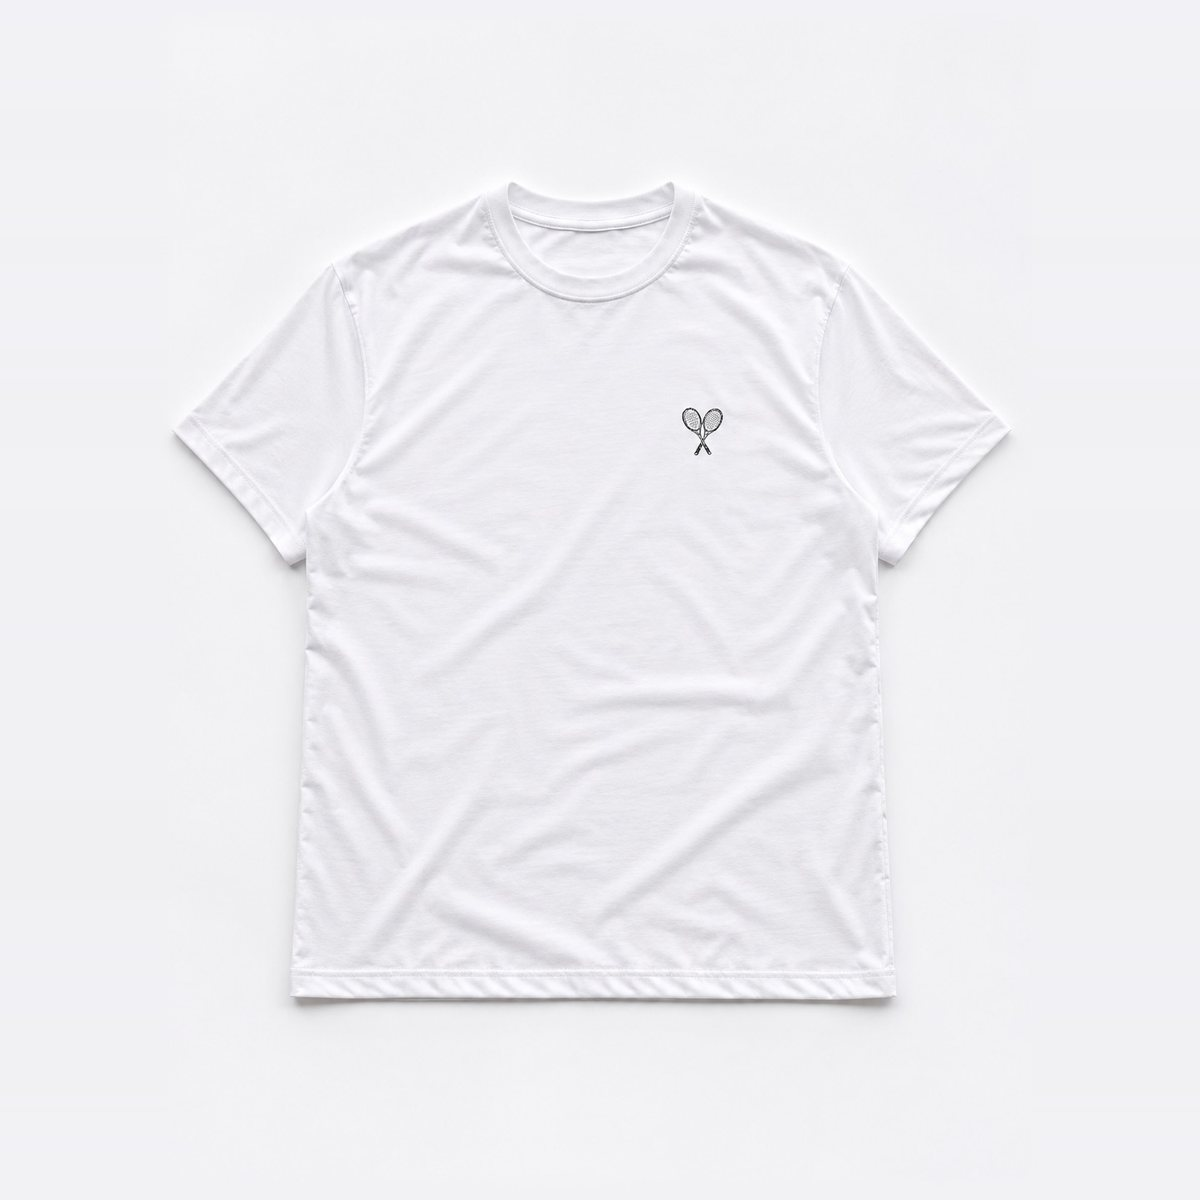
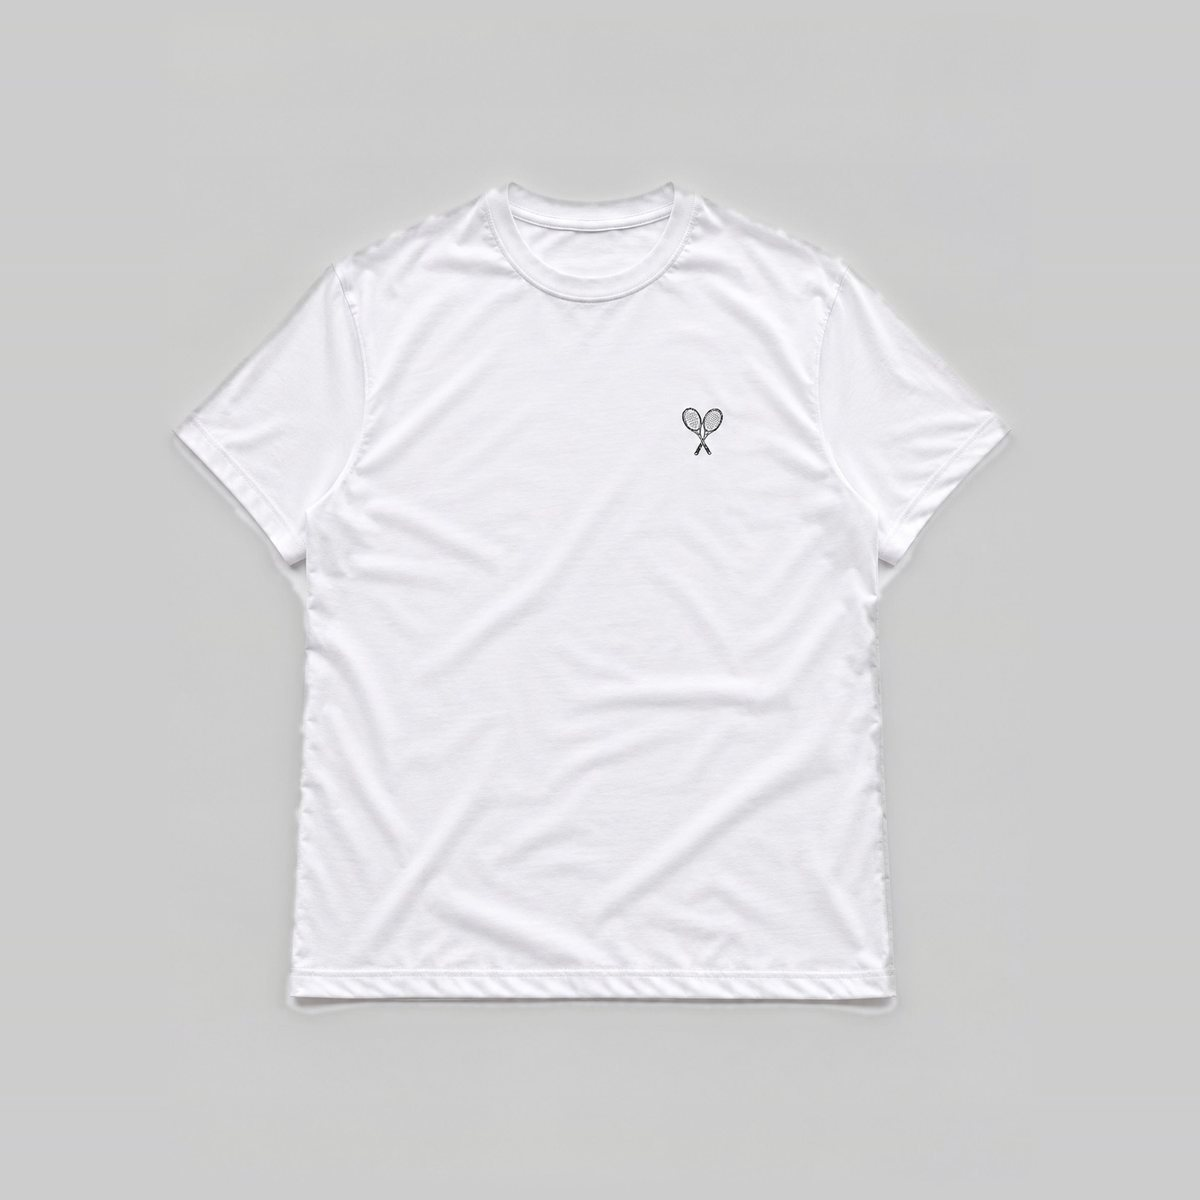
Fundo das fotos novas no mesmo cinza das antigas
Escurece só o fundo (cinza neutro 205, igual ao das Society), sem mexer
nas camisas, para dar mais destaque às peças. Inclui os scripts usados
para preparar as fotos em ferramentas/.

Claude-Session: https://claude.ai/code/session_012ifzB4S7onY6k9W8sMfLZo

diff --git a/ferramentas/fotos_quadradas.py b/ferramentas/fotos_quadradas.py
@@ -1,0 +1,69 @@
+import sys, os
+from PIL import Image, ImageFilter, ImageDraw
+D, OUT = sys.argv[1], sys.argv[2]
+fs = sorted(os.listdir(D))
+# código → (nº da peça nos arquivos, foto das costas, foto da frente)
+MAP = {"AL-001": (2, 1, 3), "AL-002": (3, 2, 4), "AL-003": (4, 6, 5), "AL-004": (5, 8, 7),
+       "AL-005": (6, 9, 10), "AL-006": (7, 12, 11), "AL-007": (8, 13, 15), "AL-008": (9, 14, 16)}
+SIZE = 1200
+
+def background(im, size):
+    """Fundo do tamanho pedido, repetindo o degradê vertical das bordas da foto."""
+    w, h = im.size
+    edge = Image.new('RGB', (2, h))
+    edge.paste(im.crop((0, 0, 10, h)).resize((1, h), Image.BOX), (0, 0))
+    edge.paste(im.crop((w - 10, 0, w, h)).resize((1, h), Image.BOX), (1, 0))
+    col = edge.resize((1, h), Image.BOX).filter(ImageFilter.GaussianBlur(8))
+    return col.resize(size, Image.BICUBIC)
+
+def feather(size, fade):
+    m = Image.new('L', size, 0)
+    ImageDraw.Draw(m).rectangle((fade, fade, size[0] - fade, size[1] - fade), fill=255)
+    return m.filter(ImageFilter.GaussianBlur(fade / 2))
+
+def to_square(im):
+    im = im.convert('RGB'); w, h = im.size
+    canvas = background(im, (h, h))
+    canvas.paste(im, ((h - w) // 2, 0), feather((w, h), 24))
+    return canvas.resize((SIZE, SIZE), Image.LANCZOS)
+
+def border_color(im):
+    w, h = im.size
+    parts = [im.crop((0, 0, 10, h)), im.crop((w - 10, 0, w, h)), im.crop((0, 0, w, 10)), im.crop((0, h - 10, w, h))]
+    tot = [0, 0, 0]; n = 0
+    for pt in parts:
+        c = pt.resize((1, 1), Image.BOX).getpixel((0, 0)); a = pt.size[0] * pt.size[1]
+        tot = [t + v * a for t, v in zip(tot, c)]; n += a
+    return [t / n for t in tot]
+
+def match_bg(im, target):
+    """Ajusta o brilho para o fundo da foto ficar igual ao da outra."""
+    src = border_color(im)
+    lut = []
+    for ch in range(3):
+        g = target[ch] / max(1, src[ch])
+        lut += [min(255, int(v * g + .5)) for v in range(256)]
+    return im.point(lut)
+
+def conjunto(front, back):
+    f, b = front.convert('RGB'), back.convert('RGB')
+    b = match_bg(b, border_color(f))
+    w, h = f.size
+    sq = background(f, (SIZE, SIZE))
+    half = SIZE // 2
+    scale = min(half * 1.0 / w, SIZE * 0.92 / h)
+    fw, fh = int(w * scale), int(h * scale)
+    for k, im in enumerate((f, b)):
+        r = im.resize((fw, fh), Image.LANCZOS)
+        sq.paste(r, (k * half + (half - fw) // 2, (SIZE - fh) // 2), feather((fw, fh), 16))
+    return sq
+
+only = sys.argv[3:] or list(MAP)
+for code in only:
+    n, ib, i_f = MAP[code]
+    back = Image.open(os.path.join(D, fs[ib])); front = Image.open(os.path.join(D, fs[i_f]))
+    opts = dict(quality=84, optimize=True, progressive=True)
+    to_square(back).save(os.path.join(OUT, f'peca_{n}_costas_cinza.jpg'), **opts)
+    to_square(front).save(os.path.join(OUT, f'peca_{n}_frente_cinza.jpg'), **opts)
+    conjunto(front, back).save(os.path.join(OUT, f'peca_{n}_conjunto_cinza.jpg'), **opts)
+    print(code, 'ok')

diff --git a/ferramentas/escurecer_fundo.py b/ferramentas/escurecer_fundo.py
@@ -1,0 +1,52 @@
+import sys, os
+import numpy as np
+from PIL import Image
+from scipy import ndimage as ndi
+TARGET = 205.0  # cinza do fundo das fotos antigas
+
+def bg_mask(rgb):
+    L = rgb.mean(axis=2)
+    Lb = ndi.gaussian_filter(L, 1.5)
+    grad = np.hypot(ndi.sobel(Lb, 0), ndi.sobel(Lb, 1)) / 8.0
+    h, w = L.shape
+    B = np.concatenate([L[:, :20], L[:, -20:]], axis=1).mean(axis=1)
+    B = ndi.gaussian_filter1d(B, 15)[:, None] * np.ones((1, w))
+    # contorno da camisa: qualquer variação acima do ruído do fundo
+    edges = grad > 0.7
+    GAP = 7  # fecha falhas do contorno de até ~14 px
+    wall = ndi.binary_dilation(edges, iterations=GAP)
+    cand = ~wall & (np.abs(Lb - B) < 25)
+    lab, n = ndi.label(cand)
+    edge_labels = np.unique(np.concatenate([lab[0], lab[-1], lab[:, 0], lab[:, -1]]))
+    bg0 = np.isin(lab, edge_labels[edge_labels > 0])
+    # devolve a faixa perdida perto do contorno, só onde o tom é de fundo
+    bg = ndi.binary_dilation(bg0, iterations=GAP) & (np.abs(Lb - B) < 10) & (grad < 2.5)
+    shirt = ndi.binary_fill_holes(~bg)
+    # faixa logo em volta da camisa com tom de fundo: também é fundo (evita brilho claro no contorno)
+    near = ndi.binary_dilation(bg, iterations=GAP + 4)
+    bg = bg | (near & shirt & (np.abs(Lb - B) < 16))
+    shirt = ndi.binary_fill_holes(~bg)
+    shirt = ndi.binary_erosion(shirt, iterations=2)
+    m = ~shirt
+    return ndi.gaussian_filter(m.astype(float), 1.8), B
+
+def darken(path_in, path_out, maskout=None):
+    im = Image.open(path_in).convert('RGB'); rgb = np.asarray(im).astype(float)
+    m, B = bg_mask(rgb)
+    # fundo neutro: cada canal de cor vai para o mesmo cinza das fotos antigas
+    w = rgb.shape[1]
+    Bc = np.concatenate([rgb[:, :20], rgb[:, -20:]], axis=1).mean(axis=1)  # (h, 3)
+    from scipy.ndimage import gaussian_filter1d
+    Bc = gaussian_filter1d(Bc, 15, axis=0)[:, None, :]
+    dark = rgb * (TARGET / np.clip(Bc, 1, None))
+    out = rgb * (1 - m[..., None]) + dark * m[..., None]
+    Image.fromarray(np.clip(out, 0, 255).round().astype(np.uint8)).save(path_out, quality=84, optimize=True, progressive=True)
+    if maskout: Image.fromarray((m * 255).astype(np.uint8)).save(maskout)
+
+if __name__ == '__main__':
+    src, dst = sys.argv[1], sys.argv[2]
+    os.makedirs(dst, exist_ok=True)
+    for f in sorted(os.listdir(src)):
+        if f.endswith('.jpg'):
+            darken(os.path.join(src, f), os.path.join(dst, f), os.path.join(dst, f.replace('.jpg', '_mask.png')) if len(sys.argv) > 3 else None)
+            print(f)

diff --git a/ferramentas/LEIAME.md b/ferramentas/LEIAME.md
@@ -1,0 +1,12 @@
+# Ferramentas de fotos
+
+Scripts usados para preparar as fotos das camisas (não vão para o site).
+
+1. `fotos_quadradas.py PASTA_ORIGEM PASTA_SAIDA [AL-001 ...]`
+   Transforma fotos em pé (frente e costas) em quadradas, completando as laterais com o
+   próprio fundo, e monta a foto "frente e verso". A tabela `MAP` no início do arquivo diz
+   qual foto (pela ordem do nome) é a frente e as costas de cada código.
+2. `escurecer_fundo.py PASTA_ENTRADA PASTA_SAIDA`
+   Deixa o fundo no mesmo cinza neutro das fotos antigas (205), sem mexer na camisa.
+
+Precisa de Python com Pillow, numpy e scipy.
